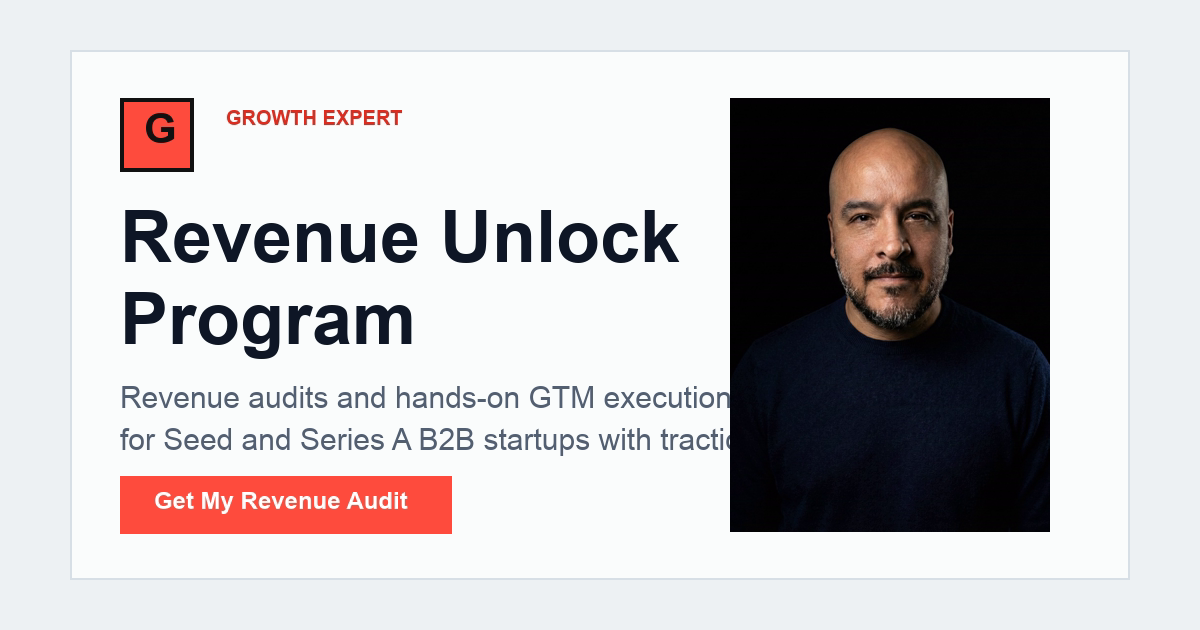
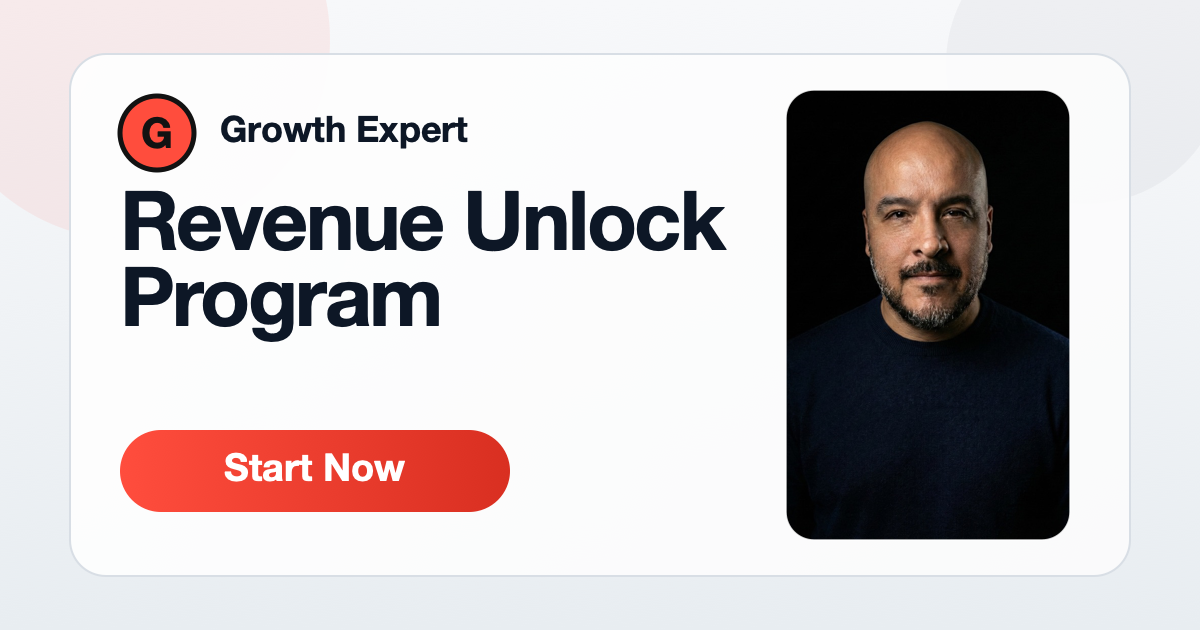
Fix social share card

diff --git a/scripts/render_social_card.swift b/scripts/render_social_card.swift
@@ -1,0 +1,254 @@
+import Foundation
+import CoreGraphics
+import CoreText
+import ImageIO
+import UniformTypeIdentifiers
+
+let root = URL(fileURLWithPath: FileManager.default.currentDirectoryPath)
+let outputURL = root.appendingPathComponent("social-card.png")
+let photoURL = root.appendingPathComponent("images/jorge_tellez.jpg")
+
+let width = 1200
+let height = 630
+let canvas = CGSize(width: width, height: height)
+
+func rgba(_ r: CGFloat, _ g: CGFloat, _ b: CGFloat, _ a: CGFloat = 1) -> CGColor {
+    CGColor(
+        colorSpace: CGColorSpace(name: CGColorSpace.sRGB)!,
+        components: [r / 255, g / 255, b / 255, a]
+    )!
+}
+
+func rect(_ x: CGFloat, _ top: CGFloat, _ w: CGFloat, _ h: CGFloat) -> CGRect {
+    CGRect(x: x, y: CGFloat(height) - top - h, width: w, height: h)
+}
+
+func drawLine(
+    _ text: String,
+    in box: CGRect,
+    context: CGContext,
+    fontName: String,
+    fontSize: CGFloat,
+    color: CGColor,
+    alignment: CTTextAlignment = .left,
+    kern: CGFloat = 0
+) {
+    let font = CTFontCreateWithName(fontName as CFString, fontSize, nil)
+    let attributes: [NSAttributedString.Key: Any] = [
+        NSAttributedString.Key(rawValue: kCTFontAttributeName as String): font,
+        NSAttributedString.Key(rawValue: kCTForegroundColorAttributeName as String): color,
+        NSAttributedString.Key(rawValue: kCTKernAttributeName as String): kern
+    ]
+    let attributed = NSAttributedString(string: text, attributes: attributes)
+    let line = CTLineCreateWithAttributedString(attributed)
+
+    var ascent: CGFloat = 0
+    var descent: CGFloat = 0
+    var leading: CGFloat = 0
+    let lineWidth = CGFloat(CTLineGetTypographicBounds(line, &ascent, &descent, &leading))
+
+    var x = box.minX
+    switch alignment {
+    case .center:
+        x += (box.width - lineWidth) / 2
+    case .right:
+        x += box.width - lineWidth
+    default:
+        break
+    }
+
+    let baselineY = box.minY + ((box.height - (ascent + descent + leading)) / 2) + ascent
+
+    context.saveGState()
+    context.textMatrix = .identity
+    context.textPosition = CGPoint(x: x, y: CGFloat(height) - baselineY)
+    CTLineDraw(line, context)
+    context.restoreGState()
+}
+
+func fillRoundedRect(_ rect: CGRect, radius: CGFloat, context: CGContext, color: CGColor) {
+    let path = CGPath(roundedRect: rect, cornerWidth: radius, cornerHeight: radius, transform: nil)
+    context.addPath(path)
+    context.setFillColor(color)
+    context.fillPath()
+}
+
+guard let context = CGContext(
+    data: nil,
+    width: width,
+    height: height,
+    bitsPerComponent: 8,
+    bytesPerRow: 0,
+    space: CGColorSpace(name: CGColorSpace.sRGB)!,
+    bitmapInfo: CGImageAlphaInfo.premultipliedLast.rawValue
+) else {
+    fatalError("Could not create drawing context")
+}
+
+context.setAllowsAntialiasing(true)
+context.setShouldAntialias(true)
+context.interpolationQuality = .high
+
+let fullRect = CGRect(origin: .zero, size: canvas)
+context.saveGState()
+context.addRect(fullRect)
+context.clip()
+let bgGradient = CGGradient(
+    colorsSpace: CGColorSpace(name: CGColorSpace.sRGB)!,
+    colors: [rgba(247, 248, 250), rgba(232, 237, 241)] as CFArray,
+    locations: [0, 1]
+)!
+context.drawLinearGradient(
+    bgGradient,
+    start: CGPoint(x: canvas.width / 2, y: canvas.height),
+    end: CGPoint(x: canvas.width / 2, y: 0),
+    options: []
+)
+context.restoreGState()
+
+context.setFillColor(rgba(255, 77, 61, 0.08))
+context.fillEllipse(in: CGRect(x: -70, y: 390, width: 400, height: 400))
+context.setFillColor(rgba(13, 23, 38, 0.04))
+context.fillEllipse(in: CGRect(x: 946, y: 426, width: 280, height: 280))
+
+let panelRect = rect(70, 54, 1060, 522)
+let panelPath = CGPath(roundedRect: panelRect, cornerWidth: 36, cornerHeight: 36, transform: nil)
+context.saveGState()
+context.setShadow(offset: CGSize(width: 0, height: -24), blur: 28, color: rgba(13, 23, 38, 0.12))
+context.addPath(panelPath)
+context.clip()
+let panelGradient = CGGradient(
+    colorsSpace: CGColorSpace(name: CGColorSpace.sRGB)!,
+    colors: [rgba(255, 255, 255, 0.96), rgba(255, 255, 255, 0.88)] as CFArray,
+    locations: [0, 1]
+)!
+context.drawLinearGradient(
+    panelGradient,
+    start: CGPoint(x: panelRect.minX, y: panelRect.maxY),
+    end: CGPoint(x: panelRect.maxX, y: panelRect.minY),
+    options: []
+)
+context.restoreGState()
+
+context.addPath(panelPath)
+context.setStrokeColor(rgba(216, 222, 229))
+context.setLineWidth(2)
+context.strokePath()
+
+let logoRect = rect(120, 96, 74, 74)
+let logoPath = CGPath(roundedRect: logoRect, cornerWidth: 37, cornerHeight: 37, transform: nil)
+context.addPath(logoPath)
+context.setFillColor(rgba(255, 77, 61))
+context.fillPath()
+context.addPath(logoPath)
+context.setStrokeColor(rgba(18, 18, 18))
+context.setLineWidth(5)
+context.strokePath()
+
+drawLine(
+    "G",
+    in: CGRect(x: 120, y: 105, width: 74, height: 54),
+    context: context,
+    fontName: "HelveticaNeue-Bold",
+    fontSize: 42,
+    color: rgba(18, 18, 18),
+    alignment: .center
+)
+
+drawLine(
+    "Growth Expert",
+    in: CGRect(x: 220, y: 104, width: 420, height: 48),
+    context: context,
+    fontName: "HelveticaNeue-Bold",
+    fontSize: 36,
+    color: rgba(13, 23, 38)
+)
+
+drawLine(
+    "Revenue Unlock",
+    in: CGRect(x: 120, y: 176, width: 620, height: 88),
+    context: context,
+    fontName: "HelveticaNeue-Bold",
+    fontSize: 82,
+    color: rgba(13, 23, 38),
+    kern: -2.4
+)
+drawLine(
+    "Program",
+    in: CGRect(x: 120, y: 252, width: 620, height: 88),
+    context: context,
+    fontName: "HelveticaNeue-Bold",
+    fontSize: 82,
+    color: rgba(13, 23, 38),
+    kern: -2.4
+)
+
+let buttonRect = rect(120, 430, 390, 82)
+let buttonPath = CGPath(roundedRect: buttonRect, cornerWidth: 41, cornerHeight: 41, transform: nil)
+context.saveGState()
+context.addPath(buttonPath)
+context.clip()
+let buttonGradient = CGGradient(
+    colorsSpace: CGColorSpace(name: CGColorSpace.sRGB)!,
+    colors: [rgba(255, 77, 61), rgba(217, 47, 33)] as CFArray,
+    locations: [0, 1]
+)!
+context.drawLinearGradient(
+    buttonGradient,
+    start: CGPoint(x: buttonRect.minX, y: buttonRect.midY),
+    end: CGPoint(x: buttonRect.maxX, y: buttonRect.midY),
+    options: []
+)
+context.restoreGState()
+
+drawLine(
+    "Start Now",
+    in: CGRect(x: 120, y: 447, width: 390, height: 40),
+    context: context,
+    fontName: "HelveticaNeue-Bold",
+    fontSize: 38,
+    color: rgba(255, 255, 255),
+    alignment: .center
+)
+
+let photoFrame = rect(786, 90, 284, 450)
+let photoPath = CGPath(roundedRect: photoFrame, cornerWidth: 28, cornerHeight: 28, transform: nil)
+if
+    let imageSource = CGImageSourceCreateWithURL(photoURL as CFURL, nil),
+    let photo = CGImageSourceCreateImageAtIndex(imageSource, 0, nil)
+{
+    let scale = max(photoFrame.width / CGFloat(photo.width), photoFrame.height / CGFloat(photo.height))
+    let drawSize = CGSize(width: CGFloat(photo.width) * scale, height: CGFloat(photo.height) * scale)
+    let drawRect = CGRect(
+        x: photoFrame.midX - drawSize.width / 2,
+        y: photoFrame.midY - drawSize.height / 2,
+        width: drawSize.width,
+        height: drawSize.height
+    )
+
+    context.saveGState()
+    context.addPath(photoPath)
+    context.clip()
+    context.draw(photo, in: drawRect)
+    context.restoreGState()
+}
+
+context.addPath(photoPath)
+context.setStrokeColor(rgba(255, 255, 255, 0.8))
+context.setLineWidth(1.5)
+context.strokePath()
+
+guard let cgImage = context.makeImage() else {
+    fatalError("Could not make CGImage")
+}
+
+guard let destination = CGImageDestinationCreateWithURL(outputURL as CFURL, UTType.png.identifier as CFString, 1, nil) else {
+    fatalError("Could not create image destination")
+}
+
+CGImageDestinationAddImage(destination, cgImage, nil)
+guard CGImageDestinationFinalize(destination) else {
+    fatalError("Could not finalize PNG")
+}
+
+print("Wrote \(outputURL.path)")
